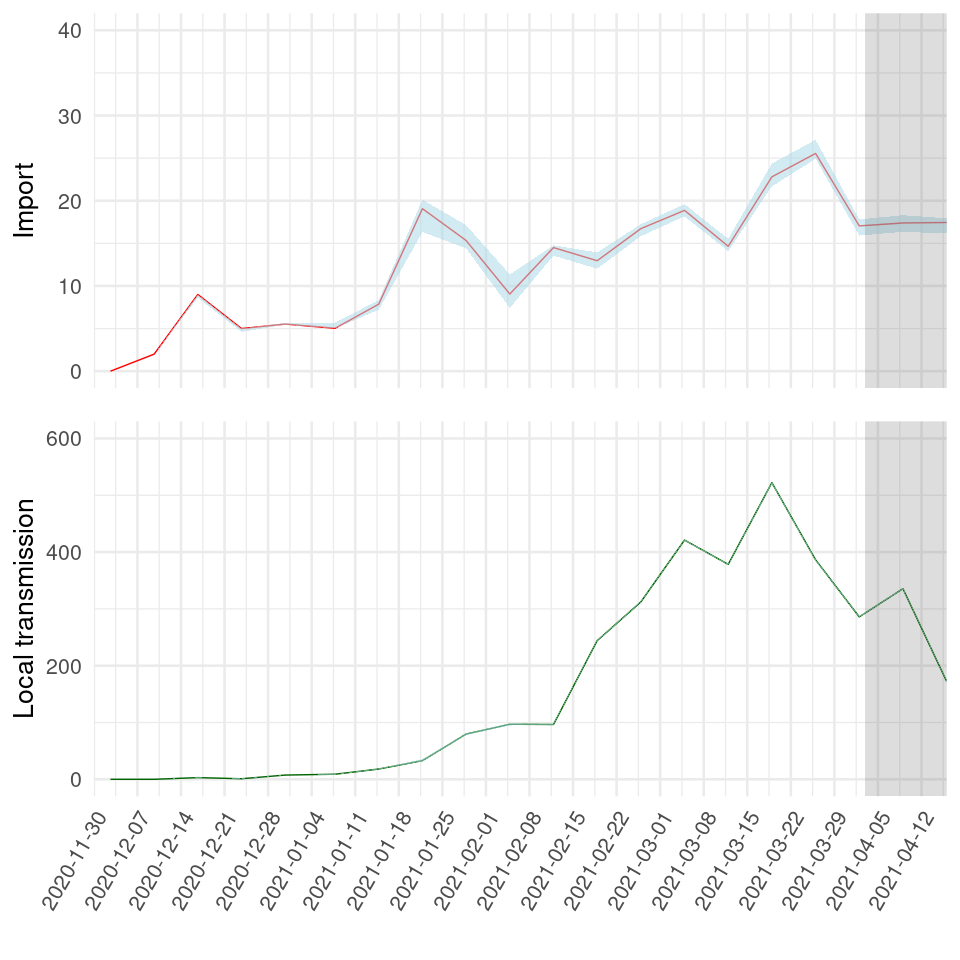
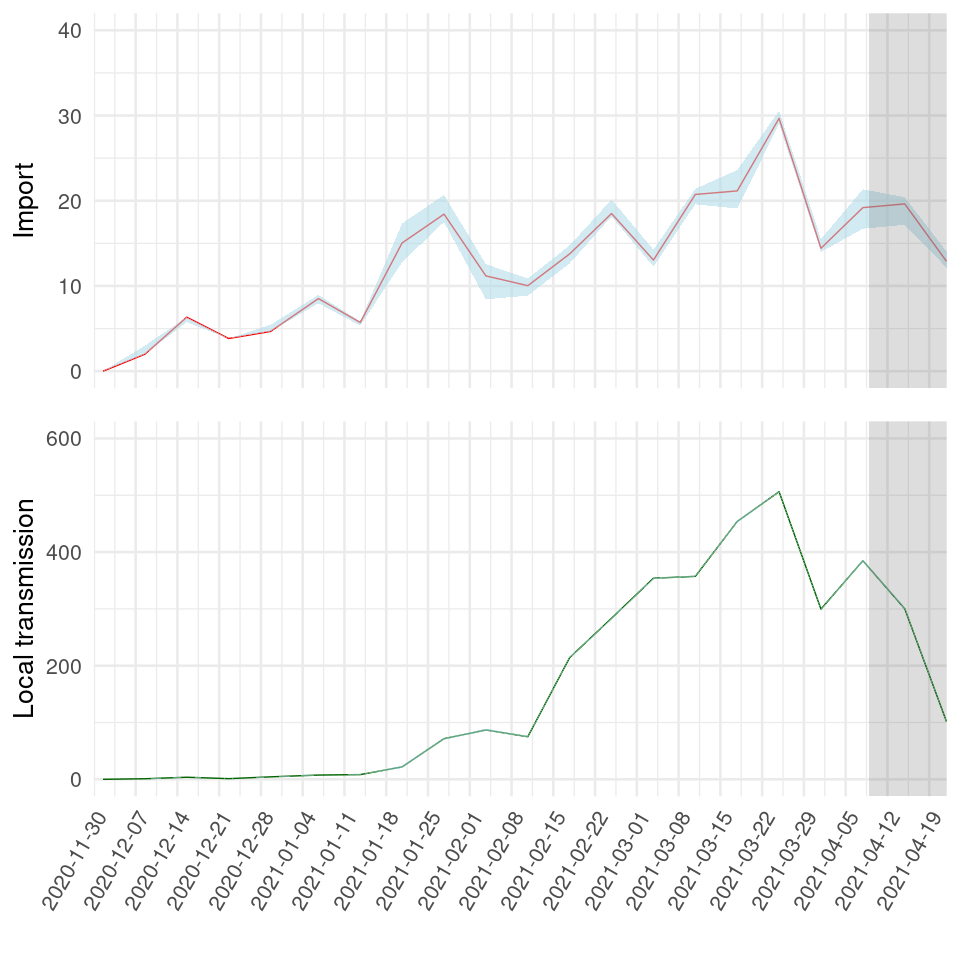
Updated with data from NextStrain build dated May 18th Included treemap plot

diff --git a/UK_results.md b/UK_results.md
@@ -1,6 +1,6 @@
 Results - B.1.1.7, “UK variant”
 ================
-10/05/2021
+18/05/2021
 
 Phylogeographic mapping
 
@@ -17,13 +17,21 @@ dated phylogeny.
 
 Quantifying introductions and local transmission
 
+Below is a visualization of the size of each transmission lineage
+detected in Norway.
+
+![](UK_results_files/figure-gfm/unnamed-chunk-2-1.png)<!-- -->
+\#\#\#\#\# Fig. 2. B.1.1.7 transmission lineage sizes in Norway. G
+denotes the number assigned to each lineage, S denotes the size of the
+lineage and TMRCA denotes the age of the lineage.
+
 ##### Table 1. Estimated number of infections in Norway resulting from import and local transmission based on the phylogeographic analyses in Figure 1.
 
-|                    |     2.5% |      50% |     97.5% |
-|:-------------------|---------:|---------:|----------:|
-| Import             |  257.125 | 2.64e+02 |  271.5500 |
-| Local transmission | 3452.450 | 3.46e+03 | 3466.8750 |
-| Import / Total     |    0.069 | 7.09e-02 |    0.0729 |
+|                    |      2.5% |       50% |     97.5% |
+|:-------------------|----------:|----------:|----------:|
+| Import             |  265.9000 |  275.0000 |  283.0000 |
+| Local transmission | 3564.0000 | 3572.0000 | 3581.1000 |
+| Import / Total     |    0.0691 |    0.0715 |    0.0736 |
 
 Next, we estimate the fraction of introductions relative to local
 transmission over time. In these and subsequent analyses it is important
